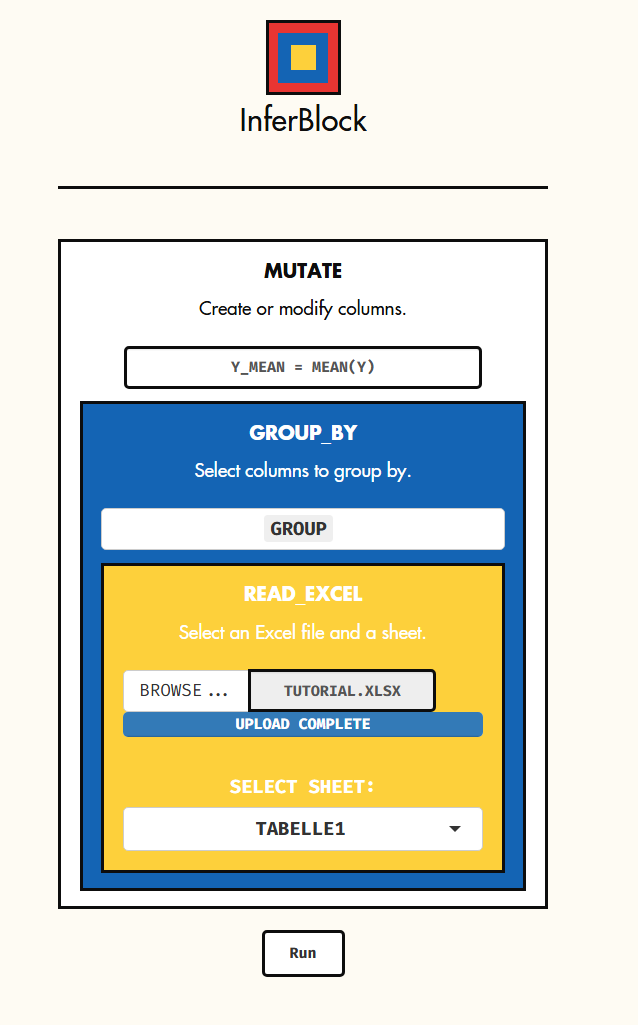
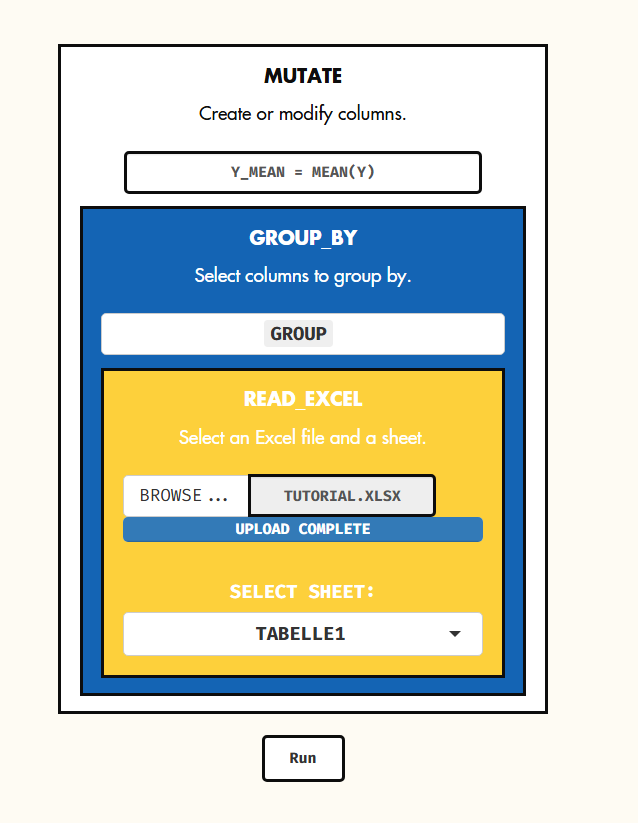
Add files via upload

diff --git a/README.html b/README.html
@@ -46,6 +46,7 @@ ul.task-list li input[type="checkbox"] {
 
 
 
+<p><img src="./README_files/img/fig0.png" class="img-fluid"></p>
 <section id="inferblock-a-visual-meta-programming-framework-for-divisible-and-transparent-data-analysis-pipelines" class="level1">
 <h1>InferBlock: A Visual Meta-Programming Framework for Divisible and Transparent Data Analysis Pipelines</h1>
 <section id="untangling-data-a-scientists-guide-to-inferblock-vs.-manual-excel-methods" class="level2">

diff --git a/README.md b/README.md
@@ -1,3 +1,5 @@
+![](./README_files/img/fig0.png)
+
 # InferBlock: A Visual Meta-Programming Framework for Divisible and Transparent Data Analysis Pipelines
 
 
